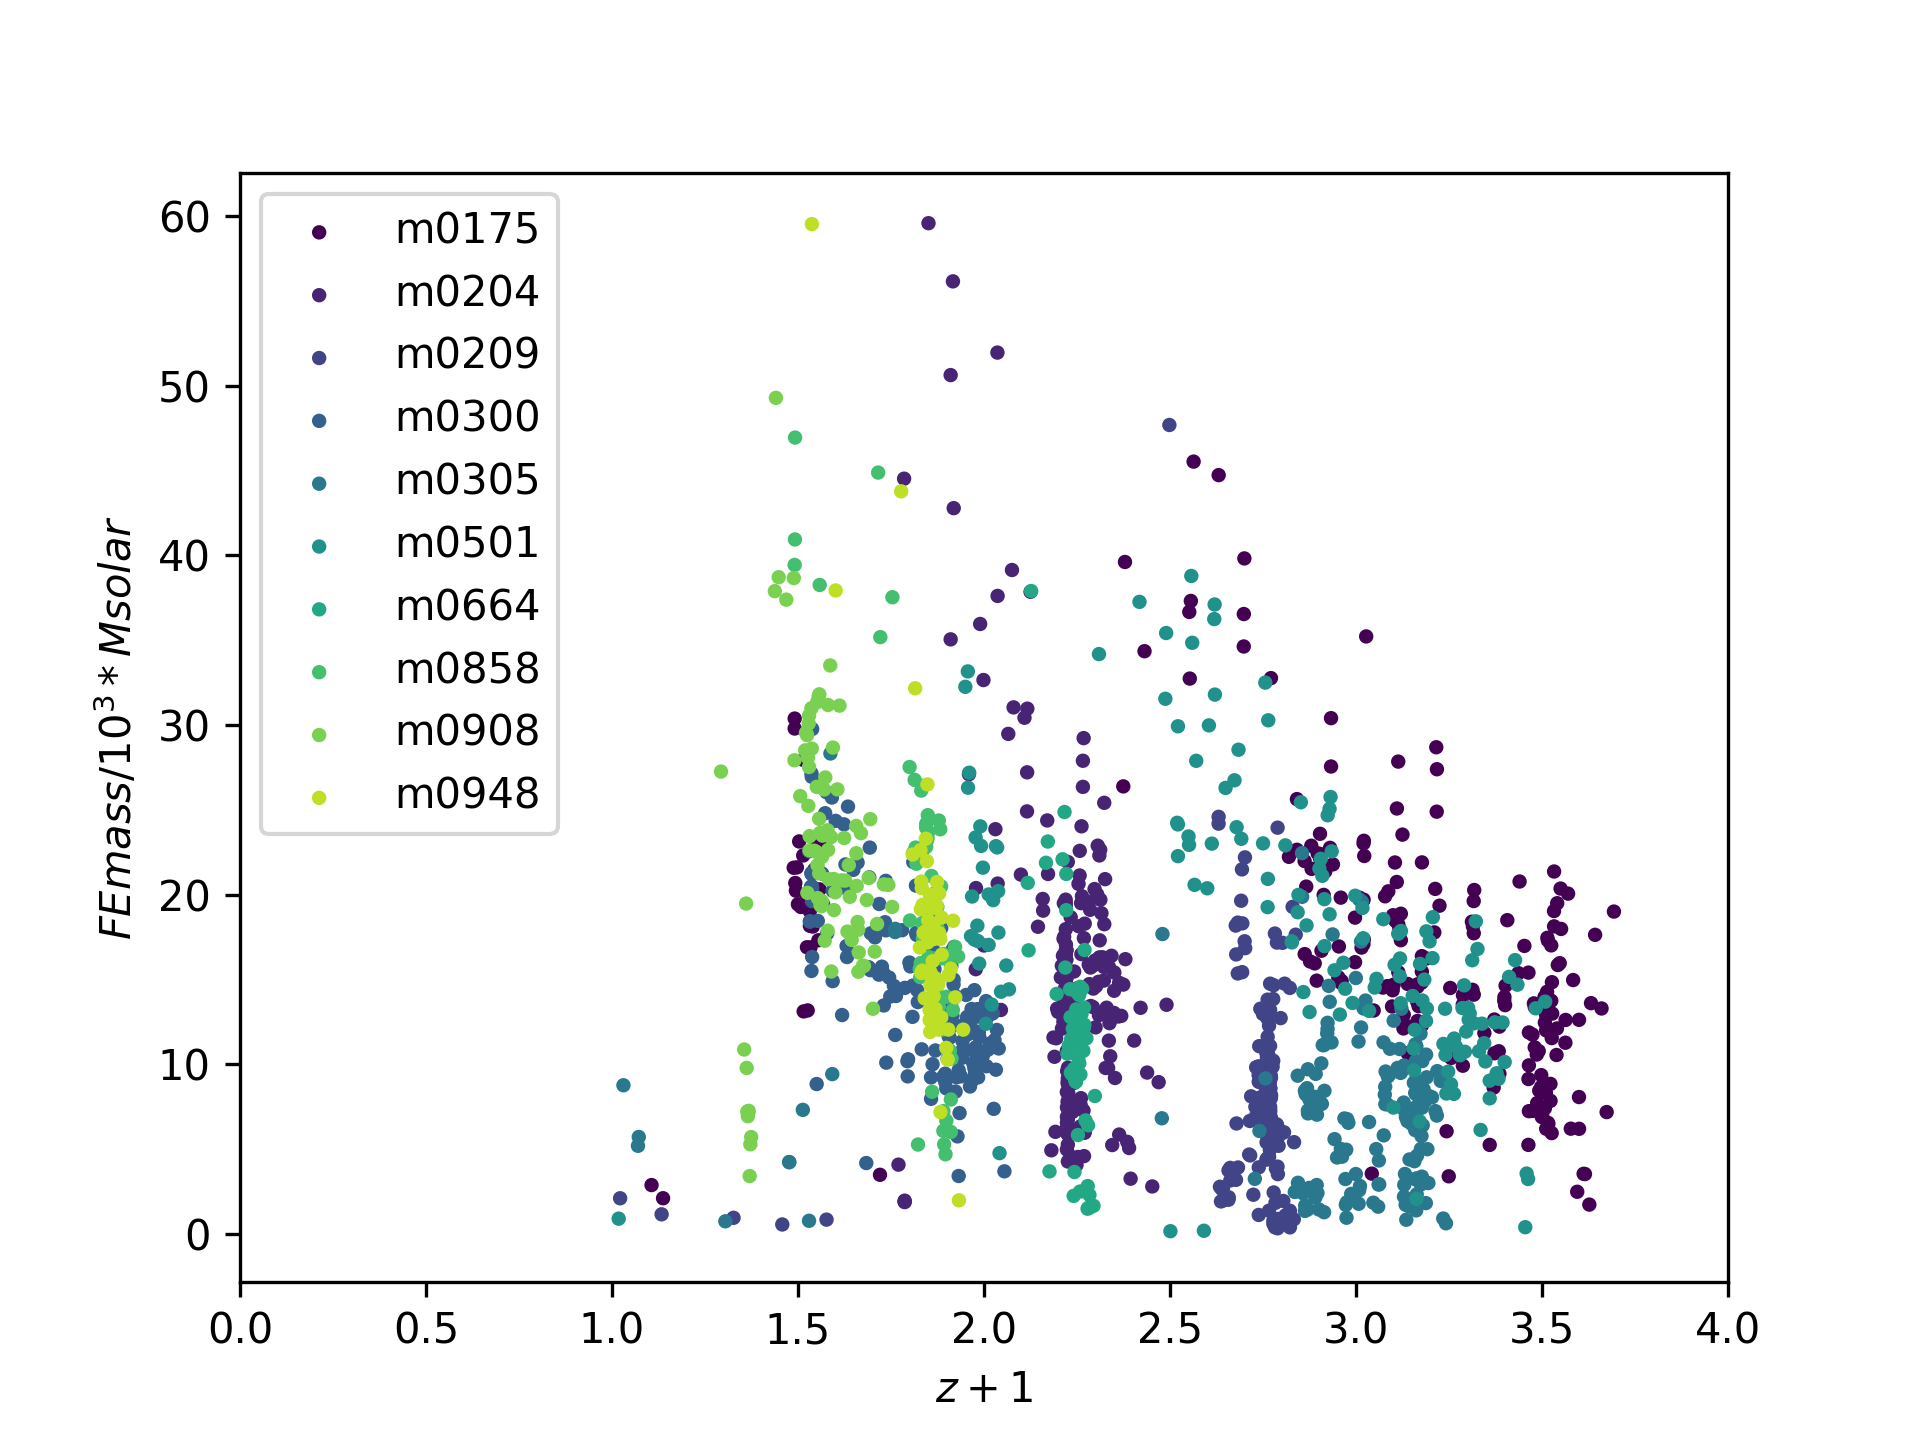
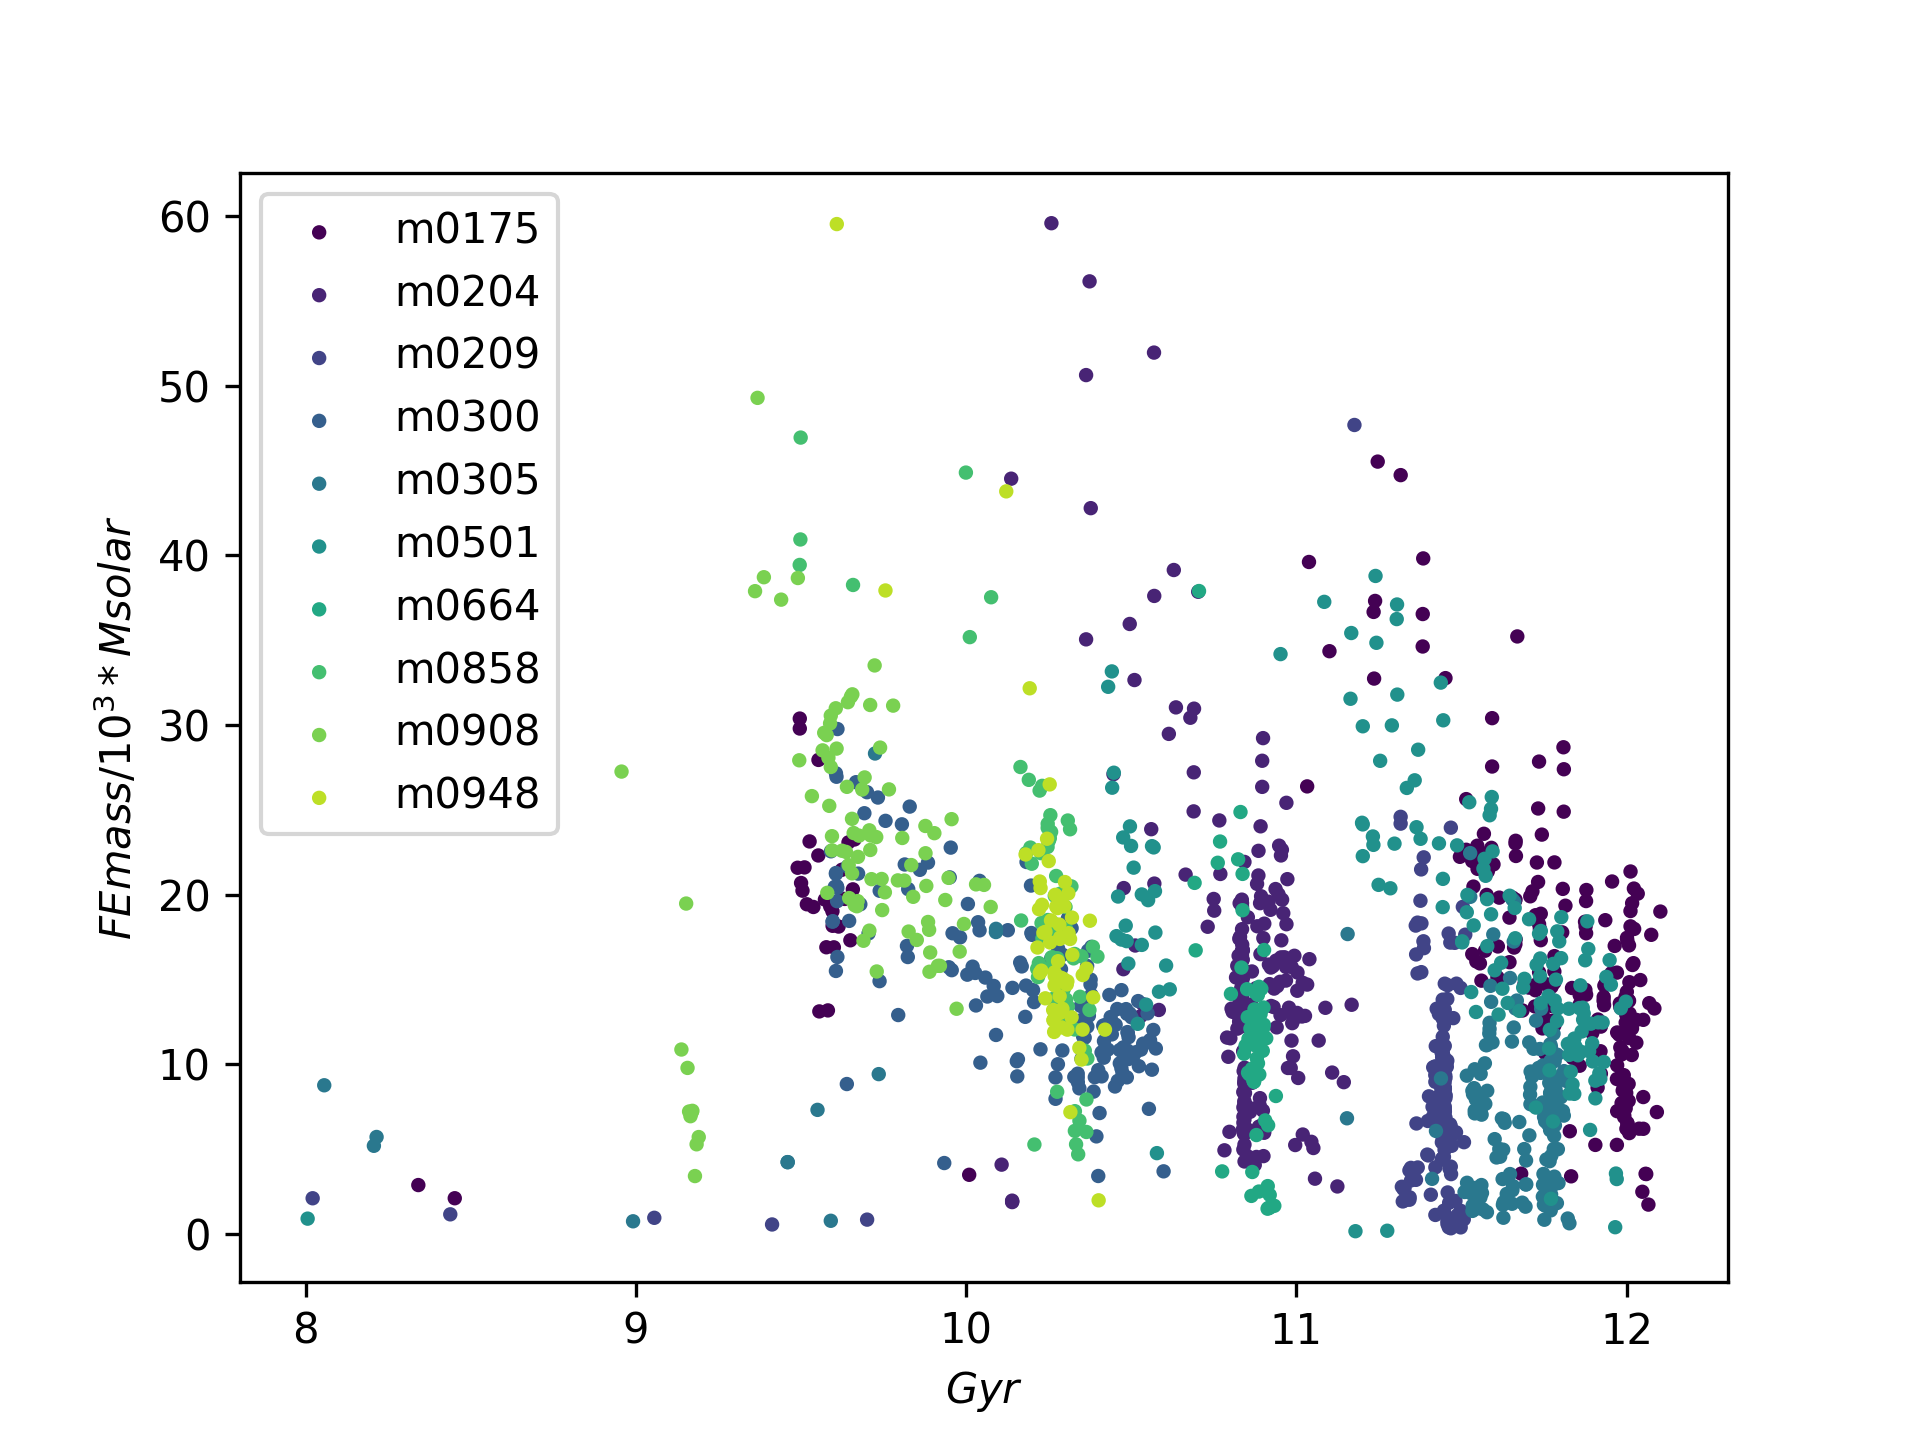
Integration

diff --git a/Average_Met.py b/Average_Met.py
@@ -2,6 +2,8 @@ import numpy as np
 import matplotlib.pyplot as plt
 import pandas as pd
 import pylab
+from astropy.cosmology import Planck13
+import math
 
 Solmet=0.012
 
@@ -49,12 +51,15 @@ for i in range(len(halo_names)):
     Split_dict.append(eachh)
     time.append(eacht)
 
-### Turn over dict 
-print(Split_dict[0][0])
+### Turn over dict + time 
+#print(Split_dict[0][0])
 print("here")
 for i in Split_dict:
     i.reverse()
-print(Split_dict[0][0])
+for i in time:
+    i.reverse()
+print(time[0])
+#print(Split_dict[0][0])
    
 
 ### Count average metallicity using SUMMATION
@@ -69,41 +74,49 @@ def sum_method(data):
             mm=mm+(j['Masp']*j['Zp'])
             am.append((mm/m)/Solmet)
         avmet.append(am)
+    print("sum")
     print(avmet[1][0])
     return avmet
-avmets=sum_method(Split_dict)
-
-### Turn over data
-# 
-# print("here")
-# print (avmets[1])
 
 ### Count average metallicity using INTEGRATION
-def sum_method(data):
+def int_method(data):
     avmet=[]
     for i in range(len(halo_names)):
         am=[]
-        m=0
-        mm=0
+        m=[]
+        mm=[]
         for j in data[i]:
-            m= m + j['Masp']
-            mm=mm+(j['Masp']*j['Zp'])
-            am.append((mm/m)/Solmet)
+            m.append(j['Masp'])
+            mm.append(j['Masp']*j['Zp'])
+            am.append(np.trapz(mm,time[i][:len(mm)])/np.trapz(m,time[i][:len(m)])/Solmet)
         avmet.append(am)
+    print("int")
     print(avmet[1][0])
     return avmet
-avmets=sum_method(Split_dict)
+
+### Convert Redshift to loockback time 
+lb_time=[]
+for i in time:
+    lb_time.append(Planck13.lookback_time(i))
+print(lb_time[0][0])
+#print('time')
+#print(Planck13.lookback_time(0.01))
 
 ### Build Plot
 def plot(amet,time):
     WD = 'D:/SNU2022/Research/AGN_SI_SNU/'
     fig, ax = plt.subplots()
-    ax.set_xlabel('$z+1$')
-    ax.set_xlim(0,4)
+    ax.set_xlabel('$Gyr$')
+    ax.set_xlim(6.5,12.5)
     ax.set_ylabel('$Average_Met(Zsolar)$')
     c=[]
     halo=[]
     for i in range(len(halo_names)):
+        print(amet[i][0])
+        if math.isnan(amet[i][0]):
+            print("el del")
+            amet[i]=amet[i][1:]
+            time[i]=time[i][1:]
         color =0+i*10
         c=np.full(len(amet[i]),color)
         str=halo_names[i]
@@ -113,5 +126,11 @@ def plot(amet,time):
     #ax.scatter(time, rat, s=6, c=c, vmin=0, vmax=100)
     ax.legend(handles=halo)
 
-    #plt.show()
-    plt.savefig('Average_Metr.png', dpi=300)
+
+avmets=sum_method(Split_dict)
+plot(avmets,lb_time)
+plt.savefig('Average_Met_Sum_lb.png', dpi=300)
+
+avmeti=int_method(Split_dict)
+plot(avmeti,lb_time)
+plt.savefig('Average_Met_Int_lb.png', dpi=300)

diff --git a/Fe.py b/Fe.py
@@ -1,7 +1,8 @@
 import numpy as np
 import matplotlib.pyplot as plt
 import pandas as pd
-
+import astropy as ast
+from astropy.cosmology import Planck13
 columns = []
 data = []
 with open('AGNgas_table_all.txt') as f:
@@ -44,15 +45,22 @@ for i in range(len(halo_names)):
     met.append(eachhm)
     time.append(eachht)
 #print(met)
-print(met[0][0])
-print(time[0][0])  
+#print(met[0][0])
+print(time[0][0])
+
+### Convert Redshift to loockback time 
+lb_time=[]
+for i in time:
+    lb_time.append(Planck13.lookback_time(i))
+print(lb_time[0][0])
+#print('time')
+#print(Planck13.lookback_time(0.01))
 
 ### Creating plot
 #print(y_ax.size)
 WD = 'D:/SNU2022/Research/AGN_SI_SNU/'
 fig, ax = plt.subplots()
-ax.set_xlabel('$z+1$')
-ax.set_xlim(0,4)
+ax.set_xlabel('$Gyr$')
 ax.set_ylabel('$FEmass/10^3*Msolar$')
 c=[]
 halo=[]
@@ -62,7 +70,7 @@ for i in range(len(halo_names)):
     str=halo_names[i]
     #for j in range(len(time[i])):
         #ax1.plot(j['t'],'b',j[str])
-    halo.append(ax.scatter(time[i], met[i], s=6, c=c, vmin=0, vmax=100,label=halo_names[i]))
+    halo.append(ax.scatter(lb_time[i], met[i], s=6, c=c, vmin=0, vmax=100,label=halo_names[i]))
 
 ax.legend(handles=halo)
 #plt.show()

diff --git a/Draft.py b/Draft.py
@@ -5,3 +5,6 @@ mass=[]
 for i in mass:
     for j in i:
         print(j,i[j]) 
+mas=[1,2,3,4,5,6,7]
+mas=mas[1:]
+print(mas)
